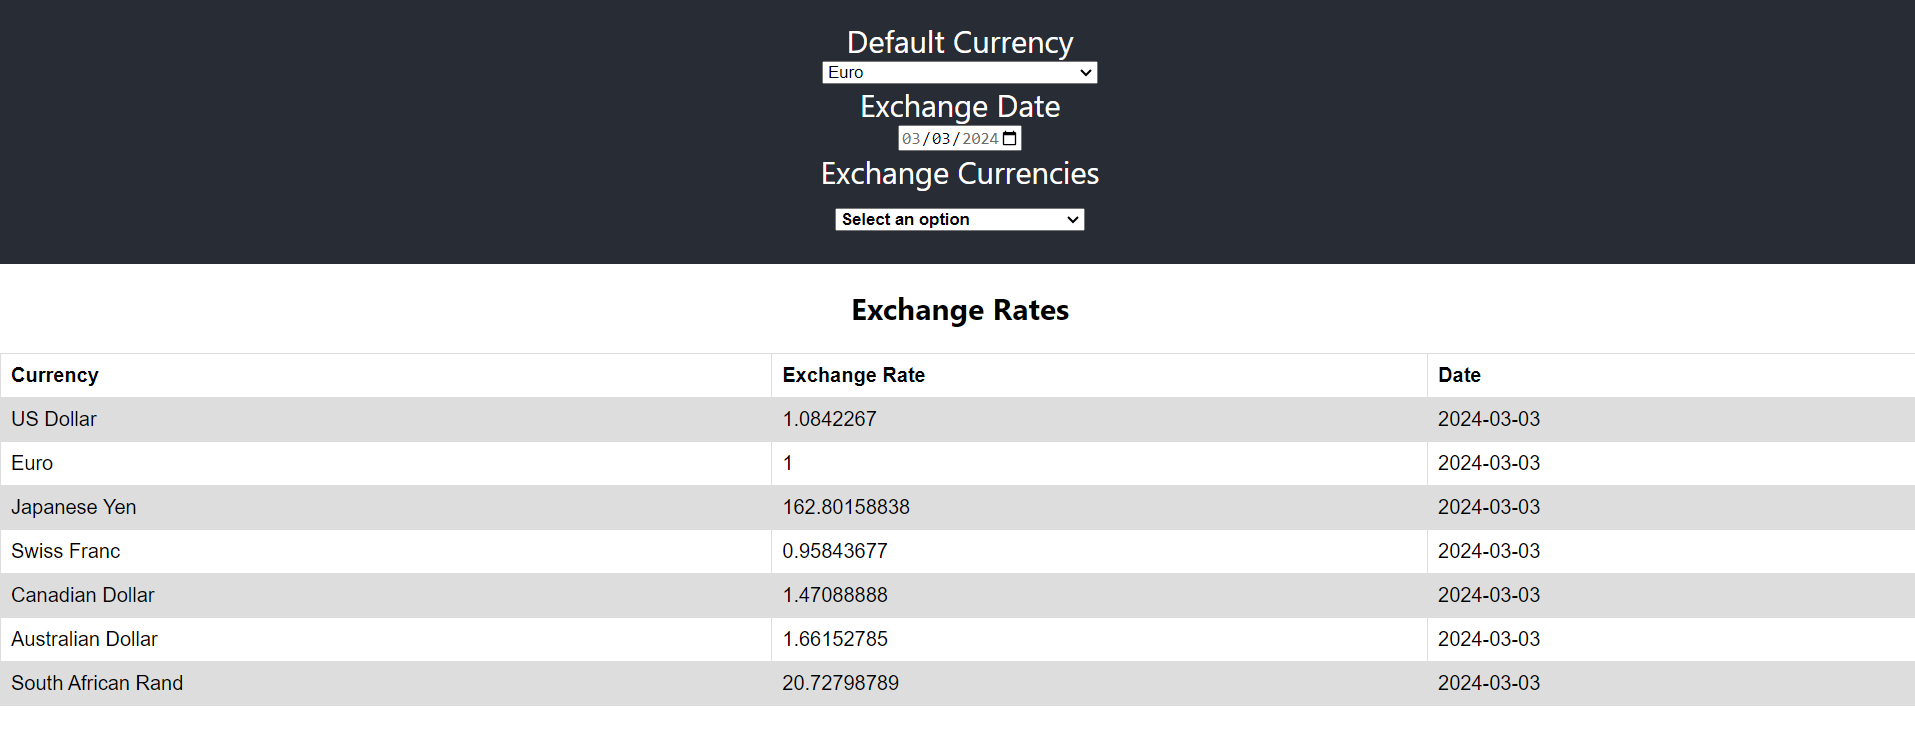
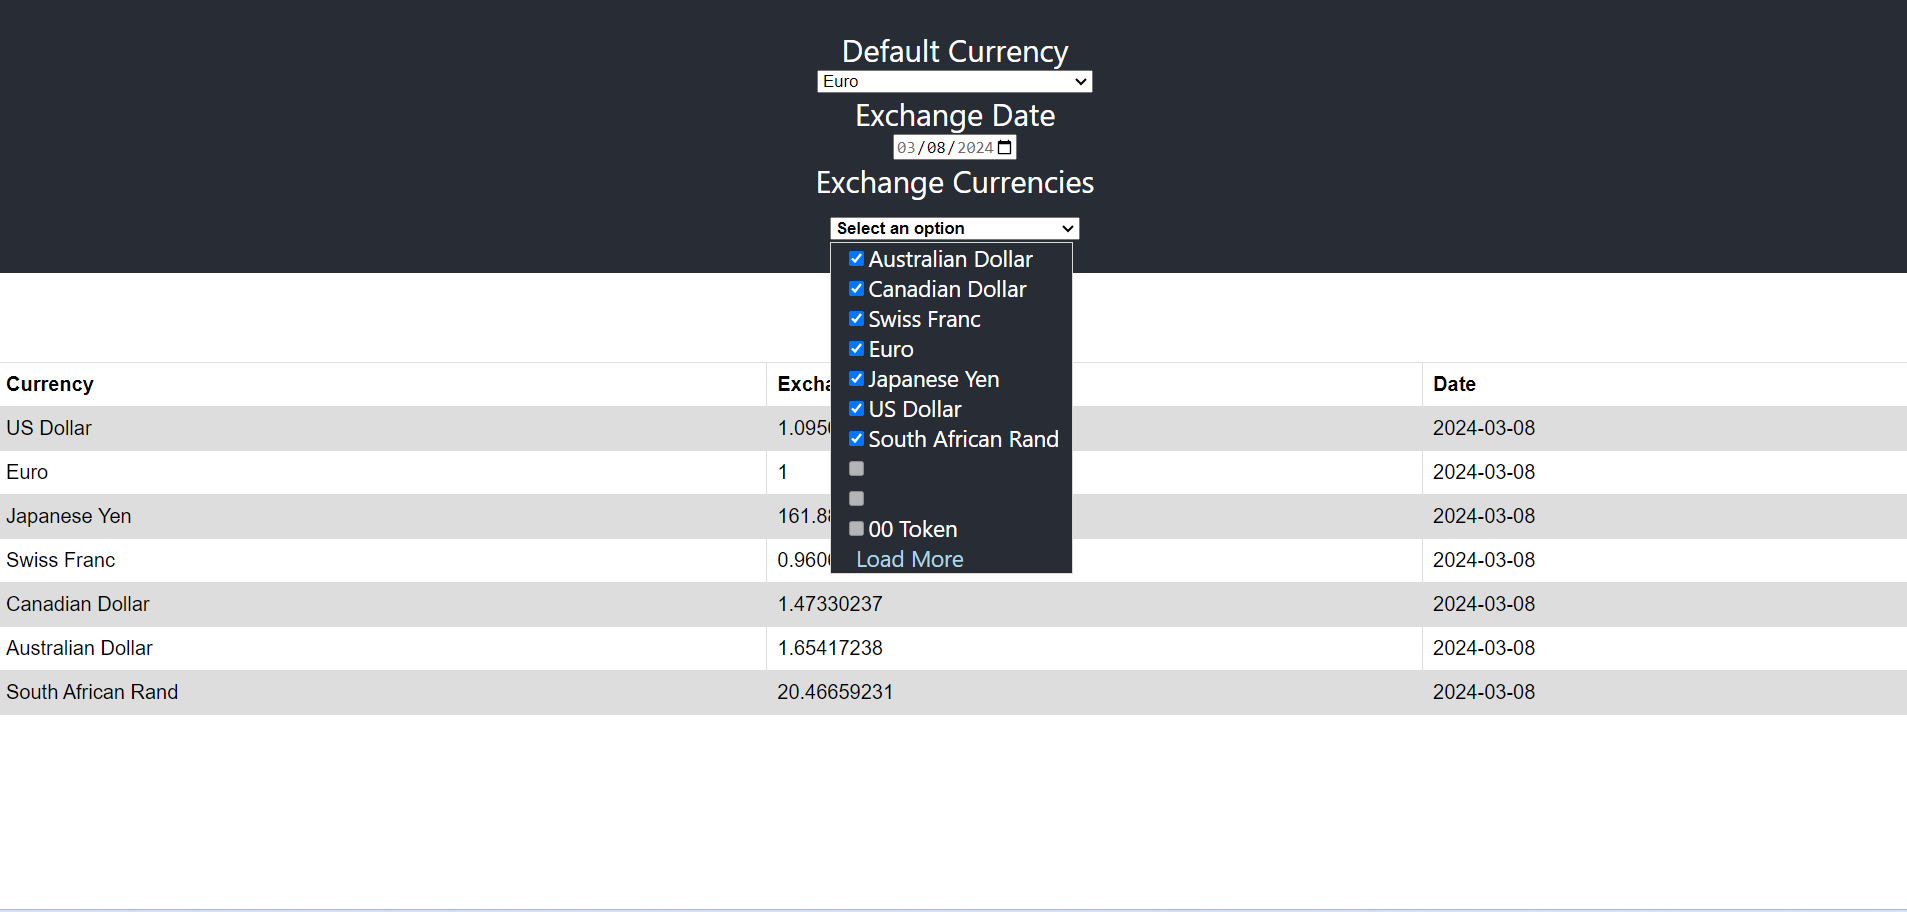
Adding currency dropdown

diff --git a/src/ExchangeCurrency.jsx b/src/ExchangeCurrency.jsx
@@ -1,8 +1,8 @@
-import React, { useRef, useState } from 'react';
+import React, { useState } from 'react';
 import "./ExchangeCurrency.css";
 const ExchangeCurrency = ({allCurrencies, selectedCurrencies, setSelectedCurrencies}) => {
     const [expanded, setExpanded ] = useState(false);
-    const checkboxRef= useRef(null);
+    const [currencyLength, setCurrencyLength] = useState(10); 
     const showCheckboxes= ()=> {
         setExpanded(!expanded);
     }
@@ -16,31 +16,41 @@ const ExchangeCurrency = ({allCurrencies, selectedCurrencies, setSelectedCurrenc
         }
 
     }
-    const displayallCurrencies = () => {
-        return Object.keys(allCurrencies)?.length > 0 && Object.keys(allCurrencies).map((currency)=> (
-            <label htmlFor={currency} key={currency}>
+    const displayAllCurrencies = () => {
+        const initialSelectedValues= [];
+        const otherValues= [];
+        Object.keys(allCurrencies)?.length > 0 && Object.keys(allCurrencies).forEach((currency)=> {
+            const value = (<label htmlFor={currency} key={currency}>
               <input 
               type="checkbox" 
               id={currency} 
               checked={selectedCurrencies[currency]}
               value={currency}
+              disabled={(!selectedCurrencies[currency] && Object.keys(selectedCurrencies).length > 6) ||
+                (selectedCurrencies[currency] && Object.keys(selectedCurrencies).length < 4)}
               onChange={()=> {onChange(currency)}}
               />
               {allCurrencies[currency]}
-            </label>
-        ))
+            </label>);
+            if(selectedCurrencies[currency]) initialSelectedValues.push(value);
+            else otherValues.push(value);
+        })
+        return [...initialSelectedValues, ...otherValues].slice(0,currencyLength);
     }
 
     return (
         <div className="multiselect">
-          <div className="selectBox" onClick={showCheckboxes} ref={checkboxRef} >
+          <div className="selectBox" onClick={showCheckboxes} >
             <select>
               <option>Select an option</option>
             </select>
             <div className="overSelect"></div>
           </div>
           <div id="checkboxes" style={{display: expanded ? "block": "none"}}>
-            {displayallCurrencies()}
+            {displayAllCurrencies()}
+            {currencyLength < Object.keys(allCurrencies).length && 
+                <div className={"loader"} onClick={()=> setCurrencyLength(currencyLength+ 10)}>Load More</div>
+            }
           </div>
         </div>
     );

diff --git a/src/App.js b/src/App.js
@@ -24,9 +24,11 @@ const App = ()=> {
     if(curencyVal != date) setDate(curencyVal);
   }
   const displayDefaultCurrency = ()=> {
-    return Object.keys(defaultCurrency).length> 0 && Object.keys(defaultCurrency).map((keyName, i) => (
-        <option value={keyName} key={keyName} >{defaultCurrency[keyName]} </option>
-    ))
+    return Object.keys(defaultCurrency).length> 0 && Object.keys(defaultCurrency).reduce((accumulator, keyName) => {
+        const val = (<option value={keyName} key={keyName} >{defaultCurrency[keyName]} </option>);
+        if(defaultCurrency[keyName]) accumulator.push(val);
+        return accumulator;
+  },[])
   };
   const displayCurrencyExchange = ()=> {
     const filteredExchangeRates = {};

diff --git a/src/ExchangeCurrency.css b/src/ExchangeCurrency.css
@@ -28,6 +28,16 @@
   
   #checkboxes label {
     display: block;
+    text-align: left;
+    padding: 0 10px;
+    font-size: 18px;
+  }
+  #checkboxes .loader {
+    font-size: 18px;
+    color: lightblue;
+    text-align: left;
+    padding-left: 20px;
+    cursor: pointer;
   }
   
   #checkboxes label:hover {
